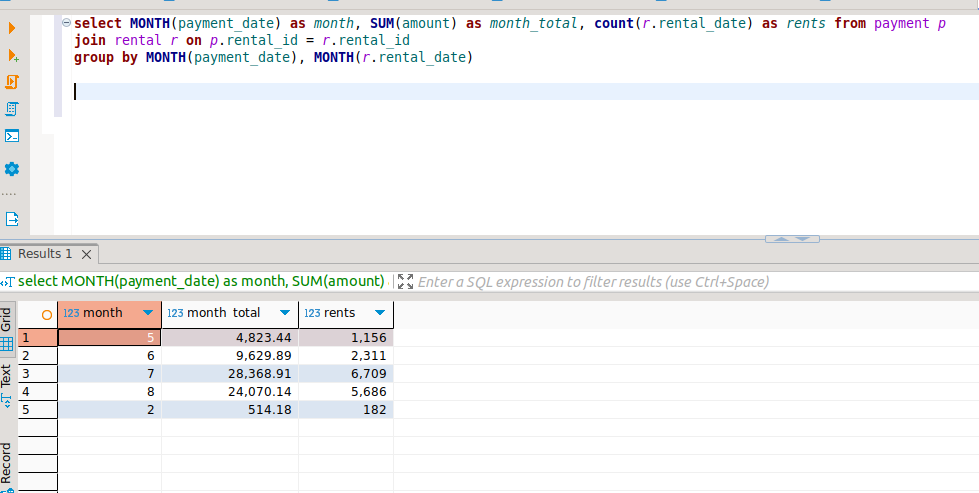
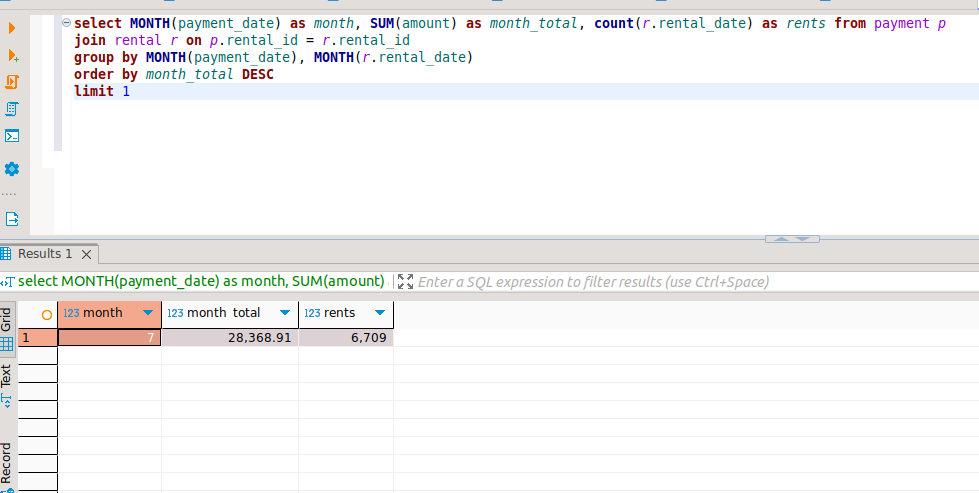
task 3 fix

Changed region(s): [[0.0613, 0.6694, 0.3984, 0.8519], [0.0613, 0.1217, 0.2758, 0.213], [0.0306, 0.2434, 0.0613, 0.3043]]

diff --git a/README.md b/README.md
@@ -43,6 +43,8 @@ where length > (select avg(length) from film)
 select MONTH(payment_date) as month, SUM(amount) as month_total, count(r.rental_date) as rents from payment p 
 join rental r on p.rental_id = r.rental_id 
 group by MONTH(payment_date), MONTH(r.rental_date)
+order by month_total DESC 
+limit 1
 ```
 
 ![task 3](img/03.png)
